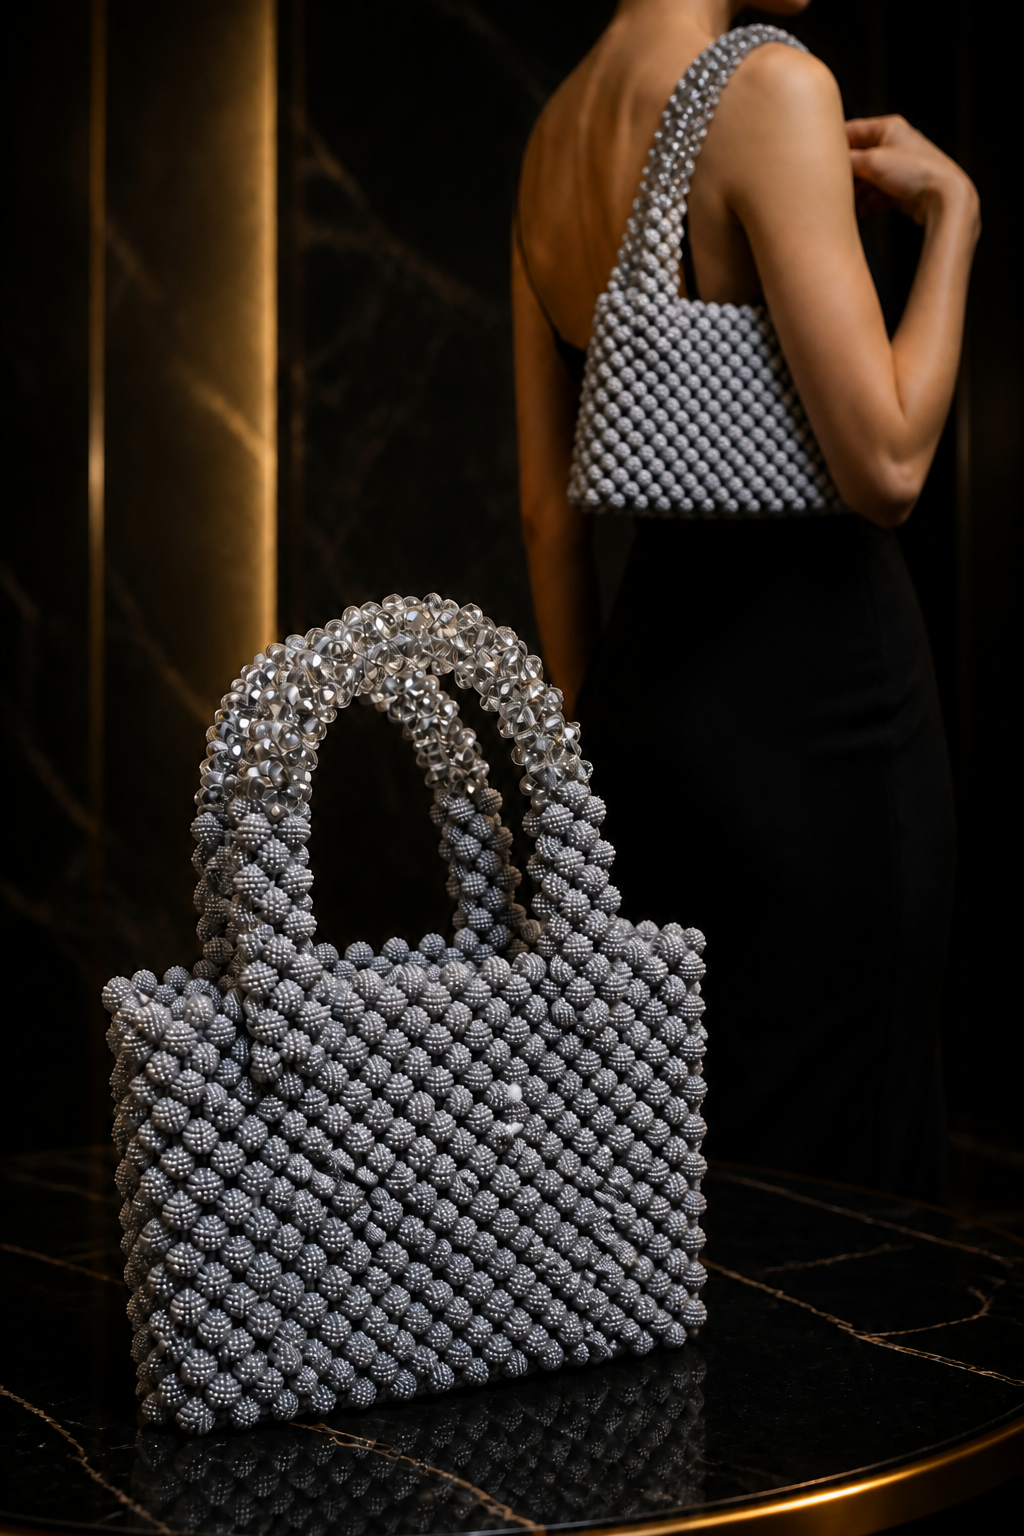
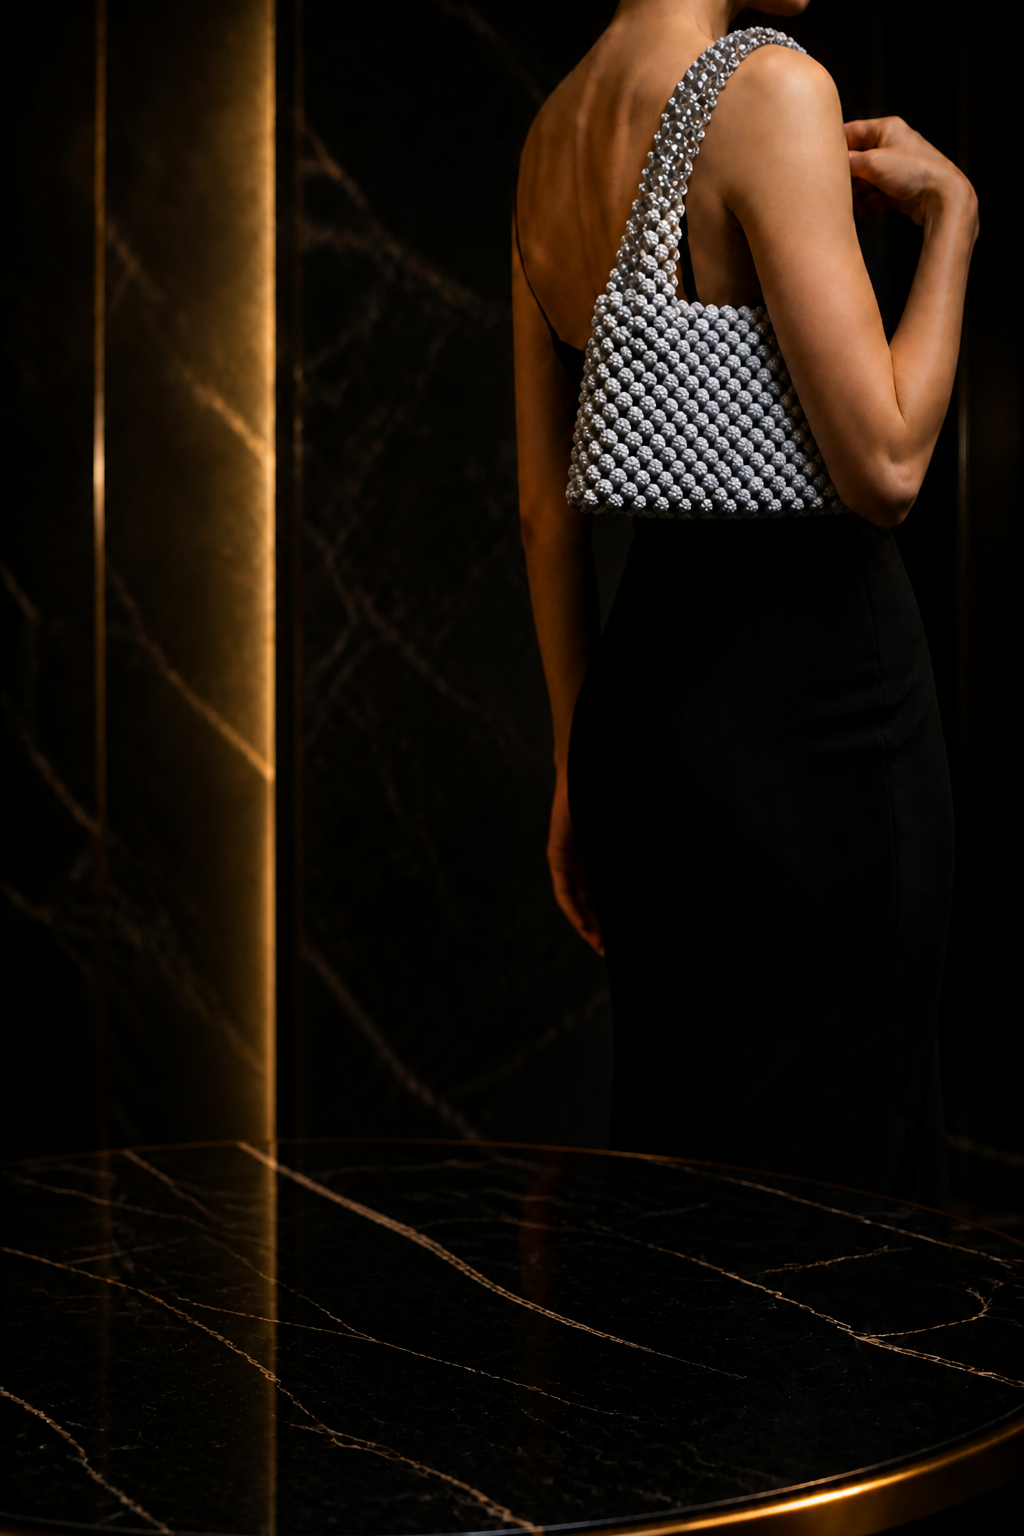
Keep product photo separate from carry example

diff --git a/app/pages/handtassen/[category]/[slug].vue b/app/pages/handtassen/[category]/[slug].vue
@@ -32,7 +32,7 @@ useSeoMeta({ title: () => product.value!.name, description: () => product.value!
         </button>
         <button type="button" class="gallery-image" :aria-label="`Bekijk ${product.name} als draagvoorbeeld groter`" @click="openLightbox('presentation')">
           <img :src="product.presentationImage" :alt="`${product.name} als draagvoorbeeld`" />
-          <span>Zo draag je haar</span>
+          <span>Draagvoorbeeld</span>
         </button>
       </div>
       <div class="detail-copy">
@@ -65,7 +65,7 @@ useSeoMeta({ title: () => product.value!.name, description: () => product.value!
             <img :src="selectedImage === 'photo' ? product.image : product.presentationImage" :alt="selectedImage === 'photo' ? product.name : `${product.name} als draagvoorbeeld`" />
           </div>
           <div class="lightbox-copy">
-            <p class="eyebrow">{{ selectedImage === 'photo' ? 'Originele productfoto' : 'Draaginspiratie' }}</p>
+            <p class="eyebrow">{{ selectedImage === 'photo' ? 'Originele productfoto' : 'Draagvoorbeeld ter inspiratie' }}</p>
             <h2>{{ product.name }}</h2>
             <p>{{ product.description }}</p>
             <div class="lightbox-specs">
